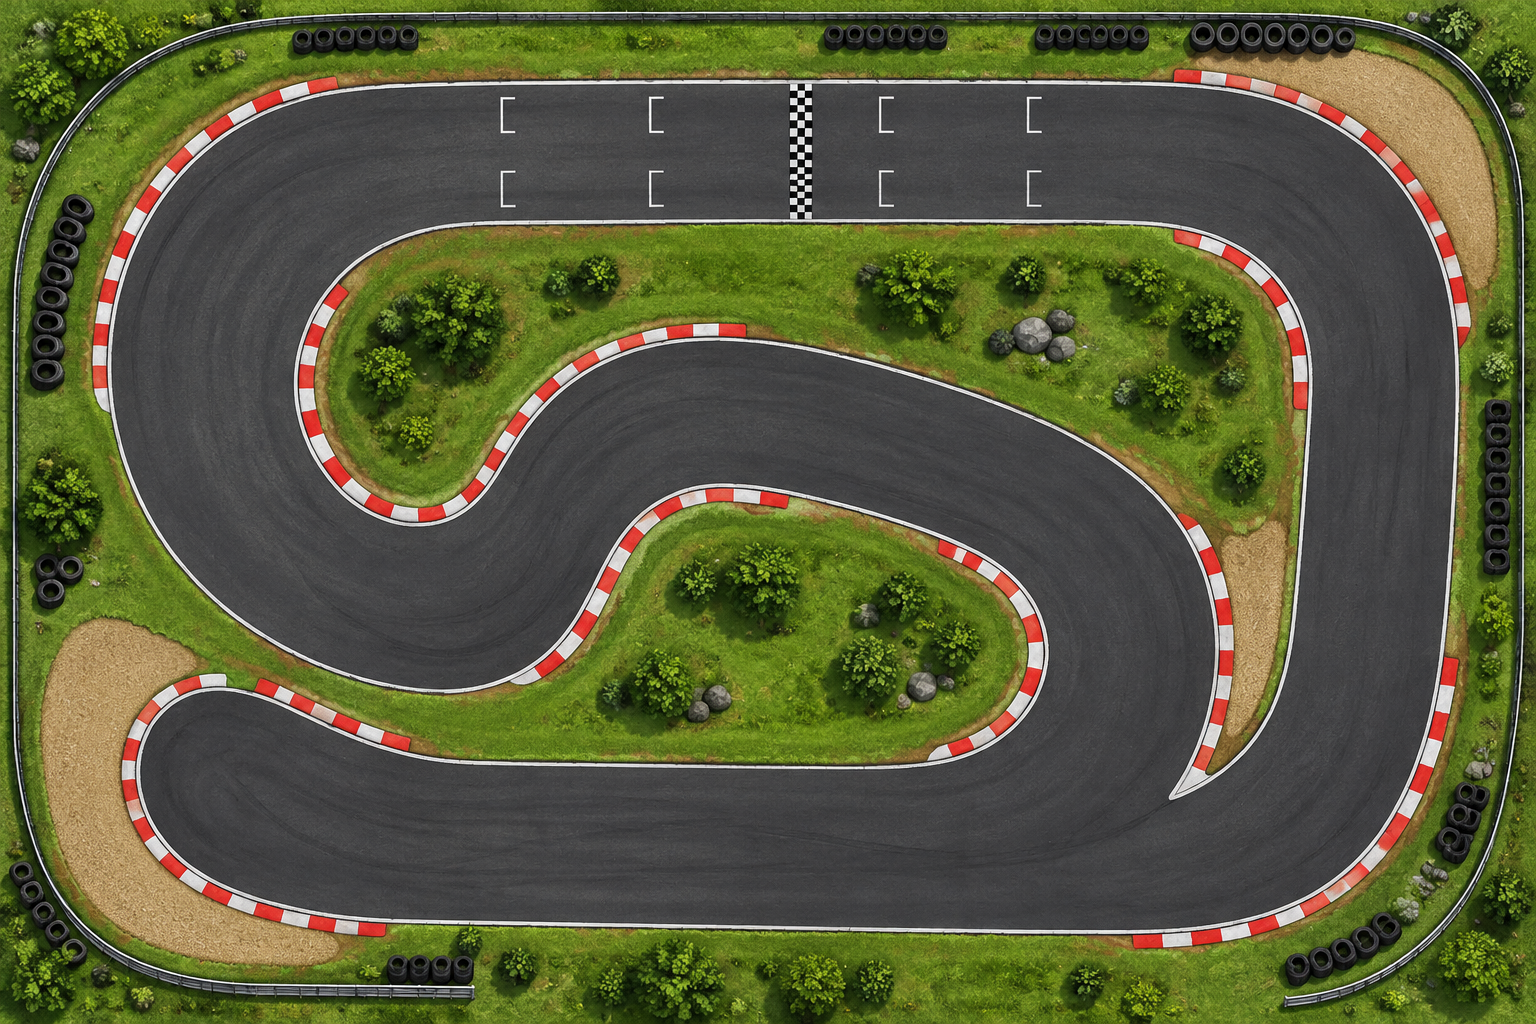
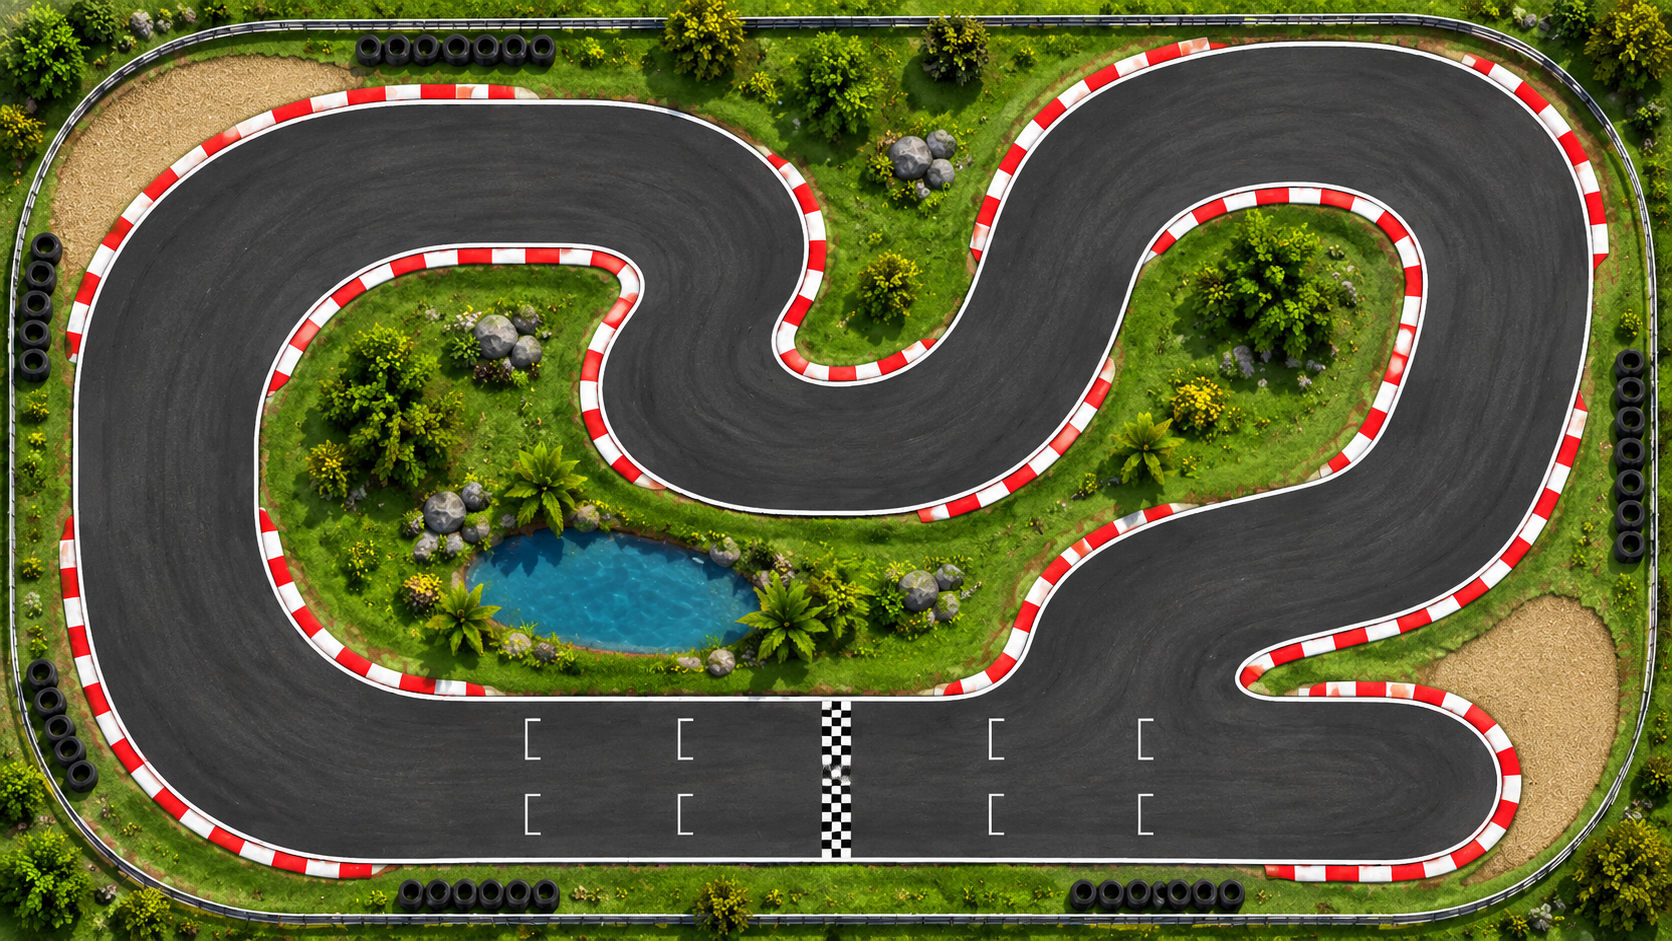
Changed the Track Addes Track Mask to slow down the car when moving on the grass.
Also kept the car in the track images.

diff --git a/src/Car.cpp b/src/Car.cpp
@@ -1,43 +1,80 @@
 #include "Car.h"
-#include<algorithm>
 
-Car::Car() : carsprite(carTexture){}
+#include <algorithm>
+#include <cmath>
 
-bool Car::load(){
-    if(!carTexture.loadFromFile("assets/cars/Car1.png")){
-        return false;
+Car::Car() : carsprite(carTexture) {}
+
+bool Car::load() {
+  if (!carTexture.loadFromFile("assets/cars/Car1.png")) {
+    return false;
+  }
+
+  carsprite.setTexture(carTexture, true);
+  carsprite.setScale({0.12f, 0.12f});
+  sf::FloatRect carBounds = carsprite.getLocalBounds();
+
+  carsprite.setOrigin({carBounds.position.x + carBounds.size.x / 2.0f,
+                       carBounds.position.y + carBounds.size.y / 2.0f});
+  carsprite.setPosition({500.0f, 530.0f});
+  carsprite.setRotation(sf::degrees(90));
+
+  return true;
+}
+void Car::update(float deltaTime) {
+  if (sf::Keyboard::isKeyPressed(
+          sf::Keyboard::Key::S)) {  //  We use max here to have the max speed at
+                                    //  0
+    speed = std::max(0.0f, speed - braking * deltaTime);
+  } else if (sf::Keyboard::isKeyPressed(sf::Keyboard::Key::W)) {
+    speed = std::min(
+        max_speed,
+        speed + acceleration * deltaTime);  // We ise min because we want the
+                                            // maximum speed is 450f.
+  } else {
+    speed = std::max(
+        0.0f, speed - drag * deltaTime);  // IF neither is pressed, the car
+                                          // speed gradually decreases
+  }  // We use max beacuse we want to stop it not to reverse it
+
+  if (speed > 0.0f) {
+    if (sf::Keyboard::isKeyPressed(sf::Keyboard::Key::A)) {
+      carsprite.rotate(sf::degrees(-turn_speed * deltaTime));
     }
-    carsprite.setTexture(carTexture, true);
-    carsprite.setScale({0.12f, 0.12f});
-    carsprite.setPosition({545.0f, 25.0f});
-    carsprite.setRotation(sf::degrees(90));
 
-    return true;
+    if (sf::Keyboard::isKeyPressed(sf::Keyboard::Key::D)) {
+      carsprite.rotate(sf::degrees(turn_speed * deltaTime));
+    }
+  }
+
+  float angle = carsprite.getRotation().asRadians() - 3.14159265f / 2.0f;
+
+  float moveX = std::cos(angle) * speed * deltaTime;
+  float moveY = std::sin(angle) * speed * deltaTime;
+
+  carsprite.move({moveX, moveY});
+
+  sf::FloatRect bounds = carsprite.getGlobalBounds();
+
+  if (bounds.position.x < 0.0f) {
+    carsprite.move({-bounds.position.x, 0.0f});
+  }
+
+  if (bounds.position.y < 0.0f) {
+    carsprite.move({0.0f, -bounds.position.y});
+  }
+
+  if (bounds.position.x + bounds.size.x > 1280.0f) {
+    float extra = bounds.position.x + bounds.size.x - 1280.0f;
+
+    carsprite.move({-extra, 0.0f});
+  }
+
+  if (bounds.position.y + bounds.size.y > 720.0f) {
+    float extra = bounds.position.y + bounds.size.y - 720.0f;
+
+    carsprite.move({0.0f, -extra});
+  }
 }
 
-void Car::update(float deltaTime){
-        if (sf::Keyboard::isKeyPressed(sf::Keyboard::Key::S)){   //  We use max here to have the max speed at 0
-            speed = std::max(0.0f, speed - braking * deltaTime);
-        } else if (sf::Keyboard::isKeyPressed(sf::Keyboard::Key::W)){
-            speed = std::min(max_speed, speed + acceleration * deltaTime);  // We ise min because we want the maximum speed is 450f.
-        }
-        else if (sf::Keyboard::isKeyPressed(sf::Keyboard::Key::A))
-         {
-
-             carsprite.rotate(sf::degrees(-turn_speed * deltaTime));
-         }
-
-         else if (sf::Keyboard::isKeyPressed(sf::Keyboard::Key::D))
-        {
-            carsprite.rotate(sf::degrees(turn_speed * deltaTime));
-         }
-         else {
-            speed = std::max(0.0f, speed - drag * deltaTime);   //IF neither is pressed, the car speed gradually decreases 
-        }                                                       //We use max beacuse we want to stop it not to reverse it
-
-        carsprite.move({speed * deltaTime, 0.0f});
-}
-
-const sf::Sprite& Car::getSprite() const{
-    return carsprite;
-}
+const sf::Sprite& Car::getSprite() const { return carsprite; }
